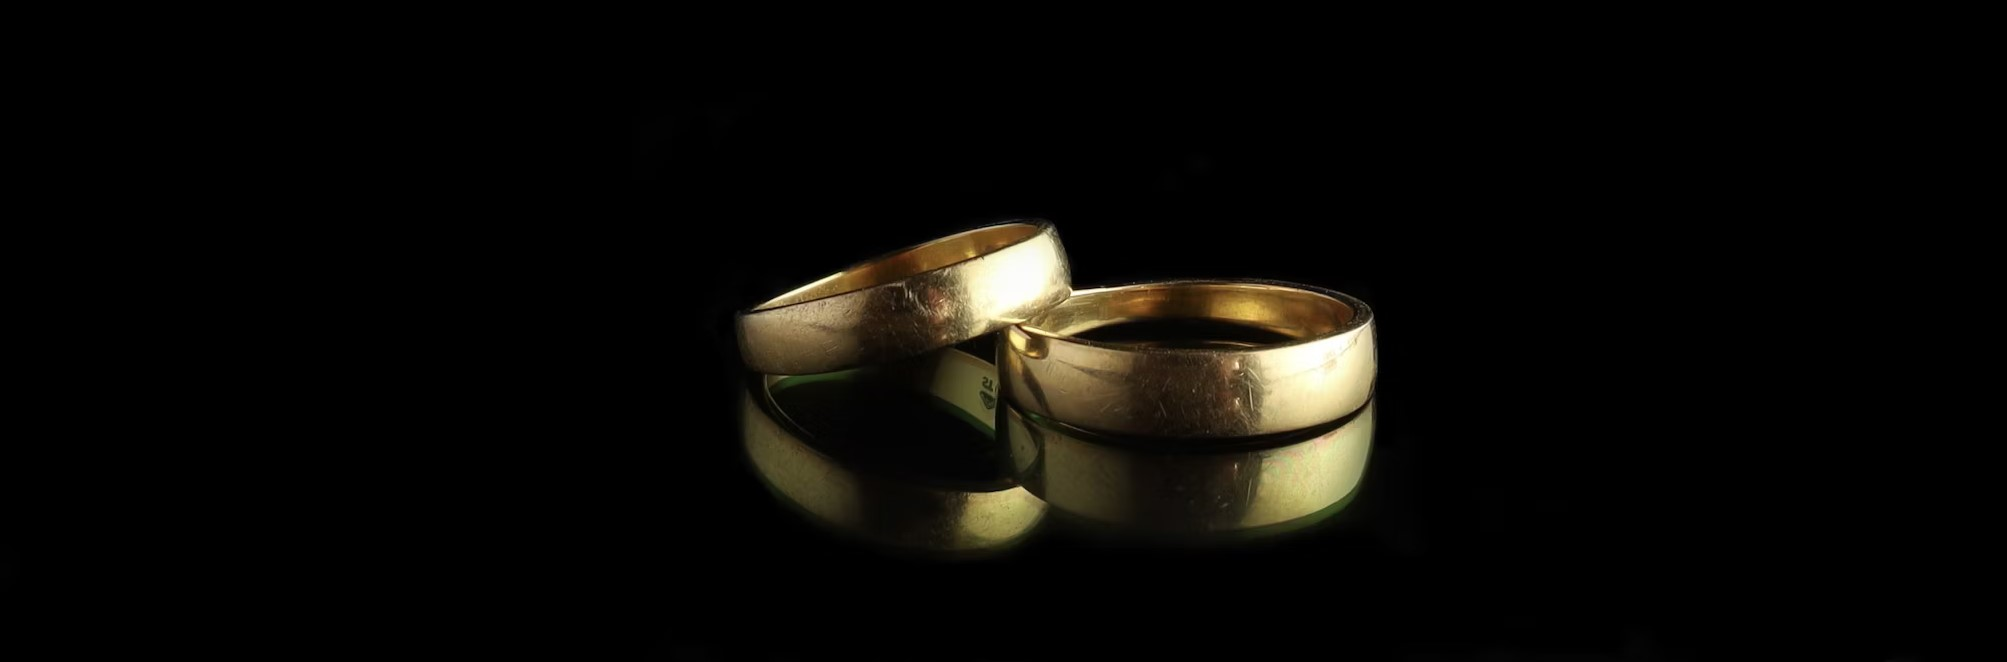
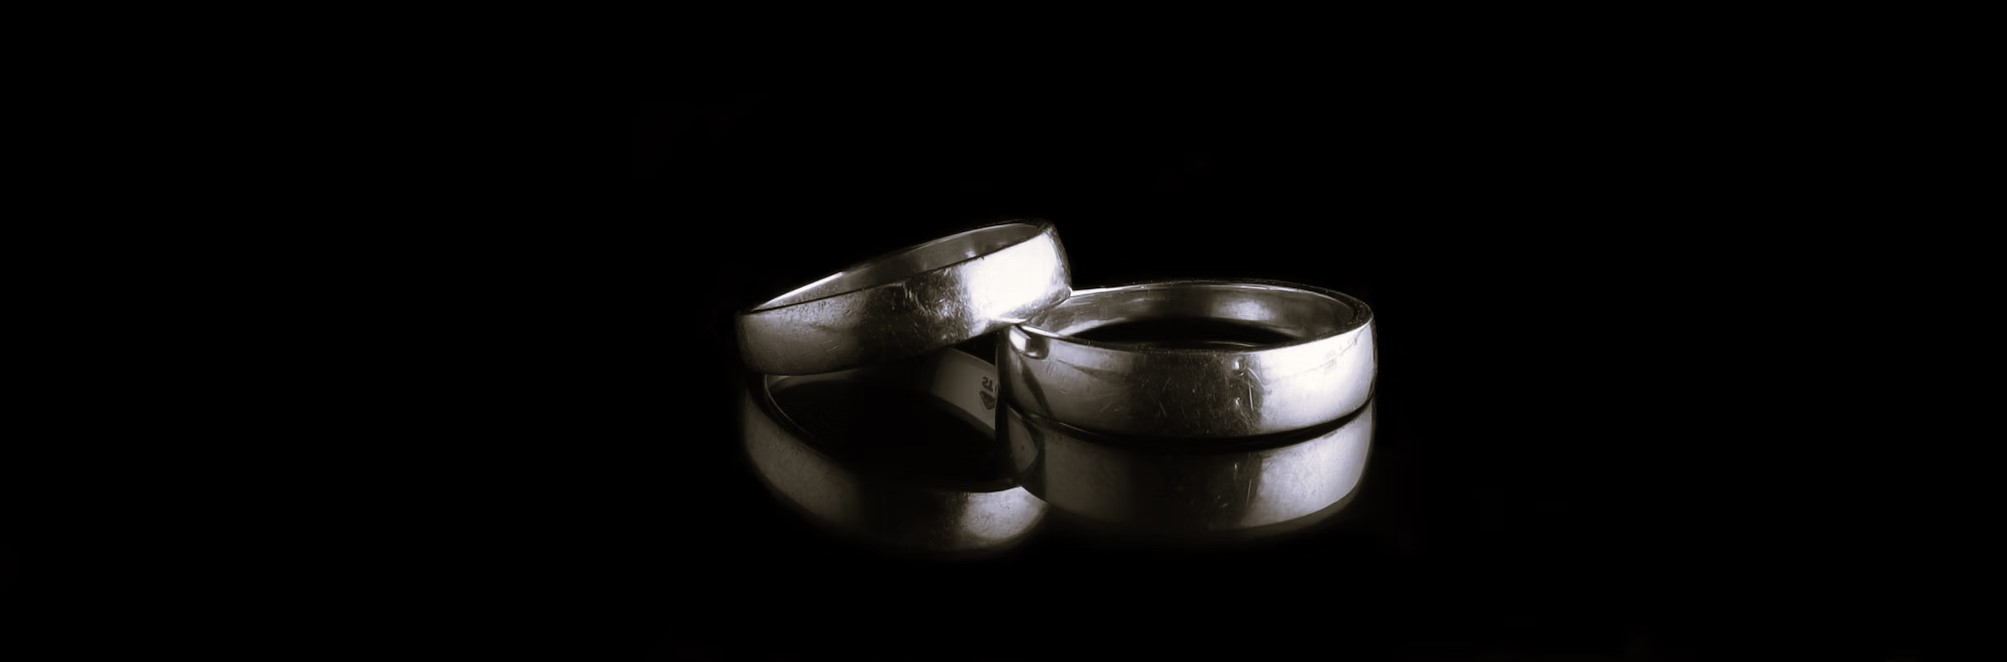
добавила разные обои для топовой части страницы

Changed region(s): [[0.3707, 0.3323, 0.7105, 0.7855], [0.4634, 0.7251, 0.5252, 0.8157]]

diff --git a/index.html b/index.html
@@ -14,7 +14,7 @@
 <body>
 
 <div class="gradient_background">
-  <img class='wallpaper' src="public/static/top/8.jpg" alt="wallpaper">
+  <img class='wallpaper' src="public/static/top/9.jpg" alt="wallpaper">
 
   <header>
     <div class="container">
